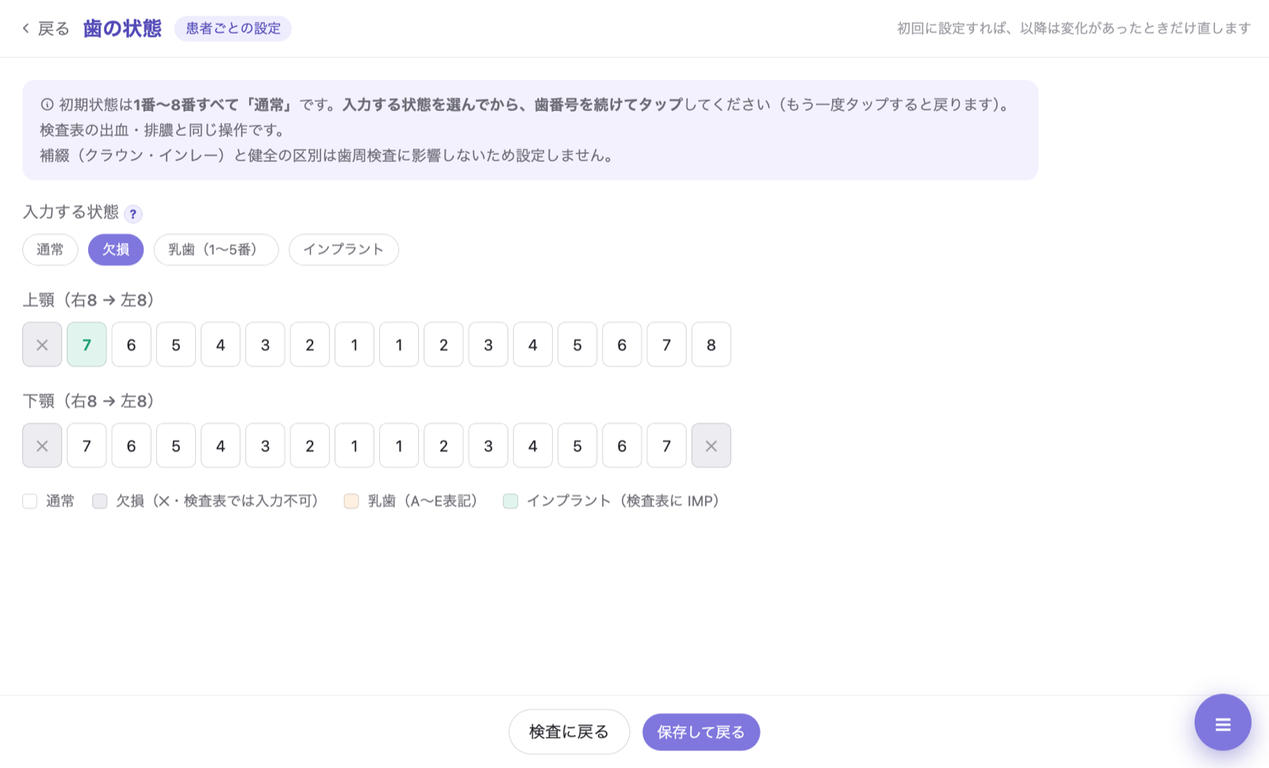
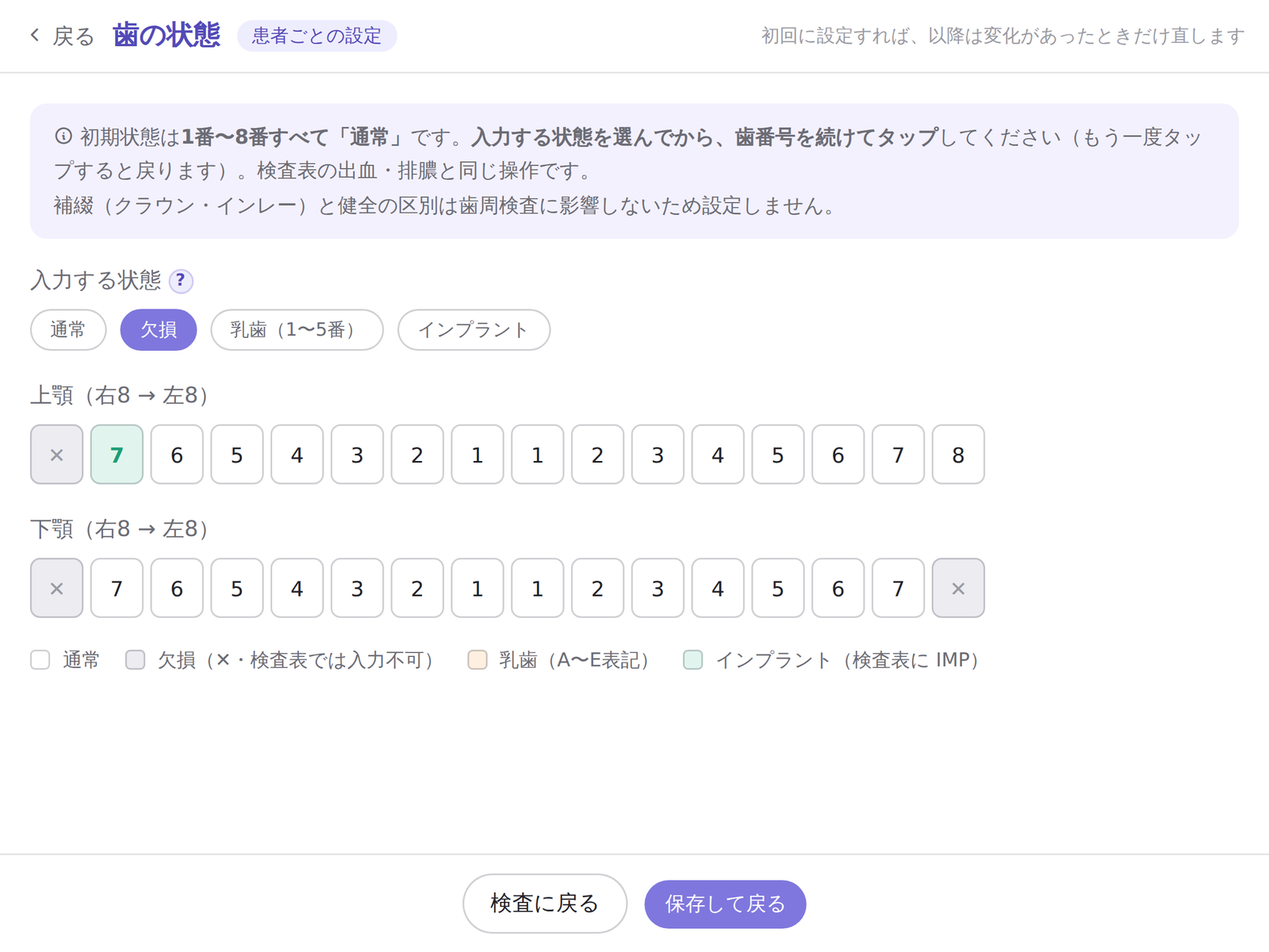
訴求をタップ入力ユーザー向けに見直し、キャプチャをiPad横（4:3）に統一
- 新セクション「WHY KOEMO」を追加（入力する点の数が減る／どの項目も操作が
  同じ／検査したあとの仕事が減る）
- 課題・入力セクション・機能カード・導入医院の声・FAQ・ロードマップ・料金を
  新しい訴求に合わせて修正。従来の音声入力との比較を軸にした表現を削除
- 集計の深さ分布の表記を 4mm未満 / 4〜6mm未満 / 6mm以上 に統一
- 画面キャプチャ10点をiPad横（4:3・1600x1200）で撮り直し、.wide 指定を廃止

Claude-Session: https://claude.ai/code/session_01CvoZChaQU9qaeBmwt9Qiq5

diff --git a/index.html b/index.html
@@ -3,8 +3,8 @@
 <head>
 <meta charset="utf-8">
 <meta name="viewport" content="width=device-width,initial-scale=1">
-<title>KOEMO（コエモ）｜プロービング検査を、声で記録する</title>
-<meta name="description" content="KOEMOは、歯周ポケット検査（プロービング検査）を音声で記録できる歯科医院向けクラウドサービスです。手を止めず、目を離さず、検査結果が残ります。">
+<title>KOEMO（コエモ）｜プロービング検査を、止めずに終える</title>
+<meta name="description" content="KOEMOは、歯周ポケット検査（プロービング検査）をiPadで記録する歯科医院向けクラウドサービスです。前回の記録が入った状態から始まるので、入力するのは変わったところだけ。操作はどの項目も「選んでから、続けてタップ」。ポケットと歯肉退縮量は声でも入れられます。">
 <style>
 :root{
   --purple:#7F77DD; --purple-d:#534AB7; --purple-dd:#3E3690;
@@ -43,6 +43,9 @@ nav.gnav a:hover{color:var(--purple-d);border-bottom-color:var(--purple)}
 /* ---------- 共通パーツ ---------- */
 section{padding:76px 0}
 section.alt{background:var(--lav3)}
+section#why{background:var(--lav)}
+section#why .fcard{border-color:var(--border2)}
+.whynote{margin-top:22px;padding:16px 20px;background:#fff;border:1px solid var(--border2);border-radius:14px;font-size:13.5px;color:var(--muted);line-height:1.9}
 .sechead{margin-bottom:36px}
 .sechead .en{display:block;font-size:11.5px;font-weight:800;letter-spacing:.2em;color:var(--purple);margin-bottom:7px}
 .sechead h2{font-size:29px;font-weight:800;margin:0;letter-spacing:.01em;line-height:1.4}
@@ -57,7 +60,6 @@ section.alt{background:var(--lav3)}
 .ipad{background:#1B1C22;border-radius:22px;padding:12px;box-shadow:0 24px 64px rgba(58,50,120,.22)}
 .ipad img{border-radius:12px;width:100%;aspect-ratio:4/3;object-fit:cover}
 .ipad.sm{border-radius:16px;padding:8px}.ipad.sm img{border-radius:9px}
-.ipad.wide img{aspect-ratio:auto;height:auto}
 .cap{font-size:12px;color:var(--hint);text-align:center;margin-top:12px}
 /* 実画面（スマホ） */
 .phone-shot{width:236px;aspect-ratio:10/19;border-radius:28px;overflow:hidden;margin:0 auto;box-shadow:0 22px 50px rgba(58,50,120,.22)}
@@ -307,9 +309,9 @@ footer ul .soon-li{color:var(--hint)}footer ul .soon-li small{font-size:9.5px;bo
   <div class="hbar">
     <a href="#" class="logo">KOEMO<span class="dot">.</span><small>コエモ</small></a>
     <nav class="gnav">
-      <a href="#probing">入力の使い分け</a>
+      <a href="#why">変わること</a>
+      <a href="#probing">入力のしかた</a>
       <a href="#change">前回との変化</a>
-      <a href="#compare">比較</a>
       <a href="#roadmap">今後の機能</a>
       <a href="#flow">導入の流れ</a>
       <a href="#price">料金</a>
@@ -329,7 +331,7 @@ footer ul .soon-li{color:var(--hint)}footer ul .soon-li small{font-size:9.5px;bo
     <div>
       <span class="pill-now"><i></i>第1弾リリース：プロービング検査</span>
       <h1 class="hero-t">プロービング検査を、<br><span class="hl">止めずに</span>終える。</h1>
-      <p class="lead">ポケットと歯肉退縮量は声で連続入力。出血・排膿・プラークはタップで素早く。前回の記録が入った状態から始まるので、変わったところだけを直していけます。歯科衛生士のためのクラウドサービスです。</p>
+      <p class="lead">前回の記録が入った状態から始まるので、入力するのは<b>変わったところだけ</b>。操作はどの項目も「選んでから、続けてタップ」で共通です。手が塞がる場面では、ポケットと歯肉退縮量を声でも入れられます。歯科衛生士のためのクラウドサービスです。</p>
       <div class="hero-btns">
         <a class="btn primary lg" href="#contact">お問い合わせ・デモ依頼</a>
         <a class="btn lg" href="#probing">画面を見る</a>
@@ -337,11 +339,11 @@ footer ul .soon-li{color:var(--hint)}footer ul .soon-li small{font-size:9.5px;bo
       <div class="hero-note">
         <span>◆ iPad・PCのブラウザで動作</span>
         <span>◆ 専用機器・初期費用なし</span>
-        <span>◆ 声とタップを使い分け</span>
+        <span>◆ 前回値が入った状態から始まる</span>
       </div>
     </div>
     <div>
-      <div class="ipad wide"><img src="img/dm_probing.png" alt="KOEMO プロービング検査画面。音声入力、検査部位、検査担当、検査表、テンキー、集計バーが表示されている" loading="eager"></div>
+      <div class="ipad"><img src="img/dm_probing.png" alt="KOEMO プロービング検査画面。音声入力、検査部位、検査担当、検査表、テンキー、集計バーが表示されている" loading="eager"></div>
       <div class="cap">プロービング検査画面（iPad横向き）</div>
     </div>
   </div>
@@ -365,40 +367,76 @@ footer ul .soon-li{color:var(--hint)}footer ul .soon-li small{font-size:9.5px;bo
         <h2>プロービング検査、<br>こんな場面はありませんか</h2>
       </div>
       <ul class="plist">
-        <li><b>記録のたびに、手と目が患者さんから離れる</b><span>プローブを持ち替え、視線を紙やモニターへ。検査のリズムが途切れます。</span></li>
-        <li><b>出血・排膿・プラークの入力に、思ったより時間がかかる</b><span>部位を口で説明している余裕はなく、かといって画面上の位置を探しながらでは進みません。</span></li>
-        <li><b>前回より良くなったのか、その場では分かりにくい</b><span>数字は並んでいても、どこが改善してどこが悪化したかは、見比べないと気づけません。</span></li>
+        <li><b>前回と同じ値も、毎回ゼロから入れ直している</b><span>入力が速いツールでも、入れる点の数は変わりません。変わっていない点まで触るぶん、検査は長くなります。</span></li>
+        <li><b>項目ごとに操作が違って、そのたびに一拍止まる</b><span>ポケット、出血、排膿、プラーク。入れ方が項目ごとに違うと、慣れていても手が止まります。</span></li>
+        <li><b>記録は残るのに、「良くなったか」はその場で分からない</b><span>数字は並んでいても、どこが改善しどこが悪化したかは、前回と見比べないと気づけません。</span></li>
+        <li><b>紙に書いている場合は、そのぶん手と目が患者さんから離れる</b><span>記録役をもう一人つけている医院もあります。あとからの書き写しや、読み違いのやり直しも残ります。</span></li>
       </ul>
-      <div class="answer">KOEMOは、<b>声で入れるところと、タップで入れるところを分けています。</b><small>ポケットと歯肉退縮量は声で連続入力。出血・排膿・プラークはタップ。前回値が入った状態から始まるので、変わったところだけを直していけます。</small></div>
+      <div class="answer">KOEMOは、<b>前回の記録が入った状態から始まります。</b><small>今回入力するのは、変わったところだけ。操作はどの項目も「選んでから、続けてタップ」で共通です。ポケットと歯肉退縮量は、手が塞がる場面で声でも入れられます。</small></div>
     </div>
   </div>
 </section>
 
-<!-- ============ 入力の使い分け ============ -->
+<!-- ============ すでにタップ入力を使っている方へ ============ -->
+<section id="why">
+  <div class="wrap">
+    <div class="sechead center">
+      <span class="en">WHY KOEMO</span>
+      <h2>すでにタップで入力できている方にこそ、<br>使っていただきたい</h2>
+      <p>タップ式の検査アプリですでにサクサク入力できている方から見れば、入力そのものはもう十分に速いはずです。KOEMOが短くするのは一打の速さではなく、<b>入力する点の数</b>と、<b>検査を終えたあとに残る仕事</b>です。</p>
+    </div>
+    <div class="fgrid">
+      <div class="fcard">
+        <div class="ico"><svg width="20" height="20" viewBox="0 0 24 24" fill="none" stroke="#534AB7" stroke-width="1.8" stroke-linecap="round" stroke-linejoin="round"><path d="M4 7h8M4 12h8M4 17h5"/><path d="M15 15l2.5 2.5L22 13"/></svg></div>
+        <h3>入力する点そのものが減る</h3>
+        <p>前回の記録が入った状態で検査表が開きます。変わっていない点は触らなくてよいので、タップの回数が減ります。速く入力するのではなく、入力する数を減らすという考え方です。</p>
+        <div class="tags"><span>前回値から開始</span><span>触るのは変化点だけ</span></div>
+      </div>
+      <div class="fcard">
+        <div class="ico"><svg width="20" height="20" viewBox="0 0 24 24" fill="none" stroke="#534AB7" stroke-width="1.8" stroke-linecap="round" stroke-linejoin="round"><path d="M4 8h13l-3-3M20 16H7l3 3"/></svg></div>
+        <h3>どの項目も操作が同じ</h3>
+        <p>「項目を選んでから、続けてタップ」。ポケットも出血も排膿も、歯の状態の設定まで同じ操作です。項目ごとに入れ方を覚え直す必要がなく、新しく入ったスタッフにもそのまま教えられます。</p>
+        <div class="tags"><span>モード選択→連続タップ</span><span>全画面で共通</span></div>
+      </div>
+      <div class="fcard">
+        <div class="ico"><svg width="20" height="20" viewBox="0 0 24 24" fill="none" stroke="#534AB7" stroke-width="1.8" stroke-linecap="round" stroke-linejoin="round"><path d="M4 19V11M10 19V5M16 19v-6M22 19H2"/></svg></div>
+        <h3>検査したあとの仕事が減る</h3>
+        <p>集計は入力のたびに更新され、深さの分布は信号色。改善・悪化はマークと音でその場に出ます。任意の2回を並べた比較やPDFもそのまま出せるので、説明用に作り直す手間が要りません。</p>
+        <div class="tags"><span>PESA・PISAも自動</span><span>比較・PDF</span></div>
+      </div>
+    </div>
+    <div class="whynote">
+      ◆ <b>手が塞がる場面だけ、声に逃がせます。</b>ポケットと歯肉退縮量は声でも入力できます。基本はタップのままで、使うかどうかはその場で選べます。<br>
+      ◆ <b>紙で記録している医院なら、記録役をもう一人つける必要がなくなります。</b>書き写しがなくなり、検査順や記録する項目は今のやり方のまま設定できます。
+    </div>
+  </div>
+</section>
+
+<!-- ============ 入力のしかた ============ -->
 <section class="alt" id="probing">
   <div class="wrap">
     <div class="sechead center">
       <span class="en">INPUT</span>
-      <h2>声とタップを、使い分ける</h2>
-      <p>速いほうで入れられることが、現場では一番の価値です。音声は<b>ポケットと歯肉退縮量</b>に絞り、それ以外はタップで完結します。</p>
+      <h2>基本はタップ。手が塞がるところだけ、声。</h2>
+      <p>どの項目も「選んでから、続けてタップ」で入ります。声で入れられるのは<b>ポケットと歯肉退縮量</b>で、使うかどうかはその場で選べます。</p>
     </div>
 
     <div class="bigshot">
-      <div class="ipad wide"><img src="img/dm_probing.png" alt="KOEMO プロービング検査画面。左上に音声入力、右上に検査部位と検査担当、中央に検査表、下にテンキーと集計バー" loading="lazy"></div>
+      <div class="ipad"><img src="img/dm_probing.png" alt="KOEMO プロービング検査画面。左上に音声入力、右上に検査部位と検査担当、中央に検査表、下にテンキーと集計バー" loading="lazy"></div>
       <div class="cap">プロービング検査画面。左上が音声、右上が検査部位と検査担当、中央が検査表、下がテンキーと集計</div>
     </div>
 
     <div class="twoshot" style="margin-top:34px">
       <div>
-        <div class="pdfshot"><img src="img/dm_voicezoom.png" alt="音声入力の操作エリア。AI音声入力ボタンと入力内容の表示欄" loading="lazy"></div>
-        <h4 style="margin-top:14px">声で入れる ― ポケット・歯肉退縮量</h4>
-        <p>「<b>3、2、3</b>」と測った値を続けて言うだけ。カーソルは次の測定点へ自動で進みます。歯を指定したいときは「6番 3、2、3」、1点だけ直したいときは「6番の遠心頬側に 3」。</p>
-        <p style="margin-top:8px"><b>入力値は読み上げません。</b>復唱を待つ時間が検査の速度を落とすためです。入った値は<b>効果音と画面表示</b>で確認します。</p>
+        <div class="ipad sm"><img src="img/dm_probing_bop.png" alt="出血モードを選んだ検査画面。左の項目ボタンで出血が選択されている" loading="lazy"></div>
+        <h4 style="margin-top:14px">タップで入れる ― 出血・排膿・プラーク・動揺度・根分岐部</h4>
+        <p>「出血」を押して、出血しているところを<b>続けてタップ</b>。排膿も同じ操作です。プラーク・動揺度・根分岐部は、値を直接タップするだけ。<b>歯の状態の設定まで同じ操作</b>なので、項目ごとに覚え直すことがありません。</p>
       </div>
       <div>
-        <div class="ipad sm wide"><img src="img/dm_probing_bop.png" alt="出血モードを選んだ検査画面。左の項目ボタンで出血が選択されている" loading="lazy"></div>
-        <h4 style="margin-top:14px">タップで入れる ― 出血・排膿・プラーク・動揺度・根分岐部</h4>
-        <p>「出血」を押して、出血しているところを<b>続けてタップ</b>。排膿も同じ操作です。プラーク・動揺度・根分岐部は、値を直接タップするだけ。<b>どの項目でも操作が同じ</b>なので迷いません。</p>
+        <div class="pdfshot"><img src="img/dm_voicezoom.png" alt="音声入力をオンにした検査画面の拡大。AI音声入力ボタンと、認識された「右上6番 頬側 3・2・3」の表示" loading="lazy"></div>
+        <h4 style="margin-top:14px">声で入れる ― ポケット・歯肉退縮量</h4>
+        <p>「<b>3、2、3</b>」と測った値を続けて言うだけ。カーソルは次の測定点へ自動で進みます。歯を指定したいときは「6番 3、2、3」、1点だけ直したいときは「6番の遠心頬側に 3」。</p>
+        <p style="margin-top:8px">入った値は<b>効果音と画面表示</b>で確認します（読み上げは行いません）。違っていれば言い直すか、テンキーからそのまま直せます。</p>
       </div>
     </div>
 
@@ -414,7 +452,7 @@ footer ul .soon-li{color:var(--hint)}footer ul .soon-li small{font-size:9.5px;bo
     <div class="sechead center">
       <span class="en">CHANGE</span>
       <h2>前回から何が変わったか、その場で分かる</h2>
-      <p>前回値が入った状態から始まり、<b>今回入力したところだけ</b>が濃く表示されます。重症度のレンジをまたいだ変化は、マークと音で知らせます。</p>
+      <p>前回値が入った状態から始まるので、入力するのは<b>変わったところだけ</b>。触った点だけが濃く表示され、重症度のレンジをまたいだ変化は、マークと音で知らせます。</p>
     </div>
 
     <div class="bigshot">
@@ -423,7 +461,7 @@ footer ul .soon-li{color:var(--hint)}footer ul .soon-li small{font-size:9.5px;bo
     </div>
 
     <div class="steps4" style="margin-top:28px">
-      <div class="st"><div class="n">1</div><h4>前回値から始まる</h4><p>ポケットも出血もプラークも、前回の記録が入った状態で開きます。変わったところだけを直していけます。</p><span class="arrow">›</span></div>
+      <div class="st"><div class="n">1</div><h4>前回値から始まる</h4><p>ポケットも出血もプラークも、前回の記録が入った状態で開きます。同じままの点は触らなくてよいので、入力そのものが減ります。</p><span class="arrow">›</span></div>
       <div class="st"><div class="n">2</div><h4>今回の入力だけ濃くなる</h4><p>触っていない点は薄いグレーのまま。「前回から入っていた」と「今回入れた」が一目で分かります。</p><span class="arrow">›</span></div>
       <div class="st"><div class="n">3</div><h4>レンジをまたぐと印がつく</h4><p>軽度→中等度→重度のレンジを越えたときだけ、<b>改善は青緑の上向き三角</b>、<b>悪化は赤の下向き三角</b>を数字の上に表示します。</p><span class="arrow">›</span></div>
       <div class="st"><div class="n">4</div><h4>良くなった音・悪くなった音</h4><p>同時に効果音が鳴ります。音が違うので、画面を見ていなくても変化に気づけます。入力ミスの発見にもつながります。</p></div>
@@ -441,7 +479,7 @@ footer ul .soon-li{color:var(--hint)}footer ul .soon-li small{font-size:9.5px;bo
     </div>
     <div class="twoshot">
       <div>
-        <div class="ipad sm wide"><img src="img/dm_toothstate.png" alt="歯の状態の設定画面。通常・欠損・乳歯・インプラントを選んでから歯番号を連続タップする" loading="lazy"></div>
+        <div class="ipad sm"><img src="img/dm_toothstate.png" alt="歯の状態の設定画面。通常・欠損・乳歯・インプラントを選んでから歯番号を連続タップする" loading="lazy"></div>
         <div class="cap">状態を選んでから、歯番号を続けてタップ。検査表の出血と同じ操作です</div>
       </div>
       <div>
@@ -463,7 +501,7 @@ footer ul .soon-li{color:var(--hint)}footer ul .soon-li small{font-size:9.5px;bo
       <p>前回との比較だけでなく、<b>任意の2回</b>を選んで上下に並べられます。検査表は横長なので、左右ではなく上下に置くことで見比べやすくしました。</p>
     </div>
     <div class="bigshot">
-      <div class="ipad wide"><img src="img/dm_compare.png" alt="検査の比較画面。2回の検査結果を上下2段に並べ、ポケット・出血・排膿を表示" loading="lazy"></div>
+      <div class="ipad"><img src="img/dm_compare.png" alt="検査の比較画面。2回の検査結果を上下2段に並べ、ポケット・出血・排膿を表示" loading="lazy"></div>
       <div class="cap">上下2段で比較。出すのはポケット・出血・排膿の3つに絞り、患者さんへの説明にそのまま使えます</div>
     </div>
     <div class="steps4" style="margin-top:26px">
@@ -485,15 +523,15 @@ footer ul .soon-li{color:var(--hint)}footer ul .soon-li small{font-size:9.5px;bo
     <div class="fgrid">
       <div class="fcard">
         <div class="ico"><svg width="20" height="20" viewBox="0 0 24 24" fill="none" stroke="#534AB7" stroke-width="1.8" stroke-linecap="round"><path d="M12 3v10"/><path d="M9 6a3 3 0 0 1 6 0v4a3 3 0 0 1-6 0z"/><path d="M6 11a6 6 0 0 0 12 0"/></svg></div>
-        <h3>声とタップの使い分け</h3>
-        <p>ポケットと歯肉退縮量は声で連続入力。出血・排膿・プラーク・動揺度・根分岐部はタップ。読み上げは行わず、効果音と画面表示で確認します。</p>
-        <div class="tags"><span>復唱なし</span><span>タップ主体</span></div>
+        <h3>タップが基本、声は選べる</h3>
+        <p>どの項目も「選んでから、続けてタップ」で共通。ポケットと歯肉退縮量は声でも入力でき、使うかどうかはその場で選べます。入った値は効果音と画面表示で確認します。</p>
+        <div class="tags"><span>操作は全項目で共通</span><span>声はポケット・歯肉退縮量</span></div>
       </div>
       <div class="fcard">
         <div class="ico"><svg width="20" height="20" viewBox="0 0 24 24" fill="none" stroke="#534AB7" stroke-width="1.8" stroke-linecap="round"><path d="M12 8v4l3 2"/><circle cx="12" cy="12" r="9"/></svg></div>
-        <h3>前回値と、変化のマーク</h3>
-        <p>前回の記録が入った状態から始まり、今回入力した点だけが濃く表示されます。レンジをまたいだ変化は三角のマークと効果音で知らせます。</p>
-        <div class="tags"><span>前回値を常時表示</span><span>改善▲／悪化▼</span></div>
+        <h3>前回値から始まる</h3>
+        <p>前回の記録が入った状態で開き、今回入力した点だけが濃く表示されます。入力するのは変わったところだけ。レンジをまたいだ変化は三角のマークと効果音で知らせます。</p>
+        <div class="tags"><span>入力するのは変化点だけ</span><span>改善▲／悪化▼</span></div>
       </div>
       <div class="fcard">
         <div class="ico"><svg width="20" height="20" viewBox="0 0 24 24" fill="none" stroke="#534AB7" stroke-width="1.8" stroke-linecap="round"><path d="M12 3c3 0 5 2 5 5 0 4-2 6-2 10-1 2-2 3-3 3s-2-1-3-3c0-4-2-6-2-10 0-3 2-5 5-5z"/></svg></div>
@@ -525,7 +563,7 @@ footer ul .soon-li{color:var(--hint)}footer ul .soon-li small{font-size:9.5px;bo
       <div class="sechead" style="margin-bottom:18px"><span class="en">SUMMARY</span><h2 style="font-size:22px">検査結果はその場で集計</h2></div>
       <div class="stats">
         <div class="stat"><div class="k">PPD平均</div><div class="v">2.6<small style="font-size:12px">mm</small></div><div class="d">ポケット深さの平均</div></div>
-        <div class="stat"><div class="k">深さ分布</div><div class="v">72<small style="font-size:12px">%</small></div><div class="d">1〜3mm / 4〜5mm / 6mm以上</div></div>
+        <div class="stat"><div class="k">深さ分布</div><div class="v">72<small style="font-size:12px">%</small></div><div class="d">4mm未満 / 4〜6mm未満 / 6mm以上</div></div>
         <div class="stat"><div class="k">BOP</div><div class="v">22<small style="font-size:12px">%</small></div><div class="d">プロービング時の出血率</div></div>
         <div class="stat"><div class="k">PCR</div><div class="v">35<small style="font-size:12px">%</small></div><div class="d">プラーク付着率</div></div>
         <div class="stat"><div class="k">PESA</div><div class="v">402<small style="font-size:12px">mm²</small></div><div class="d">歯周ポケット上皮の表面積</div></div>
@@ -534,7 +572,7 @@ footer ul .soon-li{color:var(--hint)}footer ul .soon-li small{font-size:9.5px;bo
       <p style="font-size:12.5px;color:var(--hint);margin:14px 0 0">集計は入力のたびにその場で更新されます。深さ分布は<b>軽度・中等度・重度で色分け</b>されるため、患者さんに見せながら説明できます。検査表は保存のほか、<b>PDFとして出力</b>できます。</p>
       <div class="shotgrid">
         <div>
-          <div class="ipad sm wide"><img src="img/dm_probing_rec.png" alt="全項目を表示した検査画面。動揺度・根分岐部・プラーク・ポケット・出血・排膿・歯肉退縮量" loading="lazy"></div>
+          <div class="ipad sm"><img src="img/dm_probing_rec.png" alt="全項目を表示した検査画面。動揺度・根分岐部・プラーク・ポケット・出血・排膿・歯肉退縮量" loading="lazy"></div>
           <div class="cap">記録する項目は医院ごとに選べます（動揺度・根分岐部・プラーク・ポケット・出血・排膿・歯肉退縮量）</div>
         </div>
         <div>
@@ -556,7 +594,7 @@ footer ul .soon-li{color:var(--hint)}footer ul .soon-li small{font-size:9.5px;bo
     </div>
     <div class="twoshot">
       <div>
-        <div class="ipad sm wide"><img src="img/dm_examset.png" alt="表示設定・検査順の画面。4区画の順番と右から/左からの指定、設定中の流れを示す上下顎のイラスト" loading="lazy"></div>
+        <div class="ipad sm"><img src="img/dm_examset.png" alt="表示設定・検査順の画面。4区画の順番と右から/左からの指定、設定中の流れを示す上下顎のイラスト" loading="lazy"></div>
         <div class="cap">左で順番と向きを指定すると、下のイラストの矢印と番号がそのまま変わります</div>
       </div>
       <div>
@@ -574,12 +612,12 @@ footer ul .soon-li{color:var(--hint)}footer ul .soon-li small{font-size:9.5px;bo
     </div>
     <div class="twoshot">
       <div>
-        <div class="ipad sm wide"><img src="img/dm_stream.png" alt="患者詳細画面。来院ごとの検査結果が縦に並び、PPD平均・BOP・PCR・4mm以上と検査表が表示されている" loading="lazy"></div>
+        <div class="ipad sm"><img src="img/dm_stream.png" alt="患者詳細画面。来院ごとの検査結果が縦に並び、PPD平均・BOP・PCR・4mm以上と検査表が表示されている" loading="lazy"></div>
         <h4>患者詳細（巻物）</h4>
         <p>来院ごとに PPD平均・BOP・PCR・4mm以上を表示。展開すると検査表まで見られます。右には指標の推移、左には来院日のミニマップ。</p>
       </div>
       <div>
-        <div class="ipad sm wide"><img src="img/dm_search.png" alt="患者検索画面。カルテ番号・患者名・来院日で検索し、最終診療日つきの結果が並ぶ" loading="lazy"></div>
+        <div class="ipad sm"><img src="img/dm_search.png" alt="患者検索画面。カルテ番号・患者名・来院日で検索し、最終診療日つきの結果が並ぶ" loading="lazy"></div>
         <h4>患者検索</h4>
         <p>カルテ番号・患者名・来院日で検索。結果には最終診療日が出るので、目的の患者をすぐ選べます。初診の方はその場で登録できます。</p>
       </div>
@@ -612,7 +650,7 @@ footer ul .soon-li{color:var(--hint)}footer ul .soon-li small{font-size:9.5px;bo
         <div class="dot">1</div>
         <div class="ph">PHASE 1</div>
         <h4>プロービング検査</h4>
-        <p>音声入力・読み上げ確認・検査表・統計・PDF出力</p>
+        <p>タップ入力・音声入力・前回値の表示・検査表・集計・PDF出力</p>
         <span class="st-tag">公開中</span>
       </div>
       <div class="rmi">
@@ -707,12 +745,12 @@ footer ul .soon-li{color:var(--hint)}footer ul .soon-li small{font-size:9.5px;bo
         <div class="pdesc">院長（オーナー）＋スタッフ1名分を含みます</div>
         <div class="price">¥○,○○○<small>／月</small></div>
         <div class="pnote">税込・初期費用なし</div>
-        <ul><li>プロービング検査（音声・手入力）</li><li>検査結果の保存・PDF出力</li><li>担当者ごとの検査設定</li><li>今後公開する機能も同じ契約内で追加</li></ul>
+        <ul><li>プロービング検査（タップ入力・音声入力）</li><li>検査結果の保存・PDF出力</li><li>担当者ごとの検査設定</li><li>今後公開する機能も同じ契約内で追加</li></ul>
       </div>
       <div class="pcard hi">
         <span class="badge">従量</span>
         <div class="ptitle">AIクレジット</div>
-        <div class="pdesc">音声入力・読み上げなどAIの処理で消費します</div>
+        <div class="pdesc">音声入力などAIの処理で消費します</div>
         <div class="price">¥1,000<small>／1,000クレジット</small></div>
         <div class="pnote">1クレジット＝1円相当・毎月無料枠あり</div>
         <ul><li>チャージ式（前払い）・1,000／3,000／5,000／10,000から選択</li><li>毎月1,000クレジットの無料枠</li><li>残高500クレジット未満でメール通知</li><li>利用状況の履歴を画面で確認</li></ul>
@@ -755,8 +793,8 @@ footer ul .soon-li{color:var(--hint)}footer ul .soon-li small{font-size:9.5px;bo
   </div>
   <div class="wrap">
     <div class="vscroll">
-      <div class="vcard"><p class="q">検査中に手を止めなくなった</p><p>これまでは値を言って、記録する人がもう一人必要でした。ポケットは声、出血はタップと分かれているので、一人で検査が完結します。入力のたびに音が鳴るので、見なくても入ったことが分かります。</p><div class="vprof"><div class="av">A</div><div><div class="nm">歯科衛生士</div><div class="af">◯◯歯科クリニック</div></div></div></div>
-      <div class="vcard"><p class="q">患者さんから目を離さずに済む</p><p>プローブを持ったまま値を口にするだけなので、視線が口腔内から外れません。患者さんも「ちゃんと見てもらえている」と感じてくれているようです。</p><div class="vprof"><div class="av">B</div><div><div class="nm">歯科衛生士</div><div class="af">◯◯デンタルオフィス</div></div></div></div>
+      <div class="vcard"><p class="q">入力する点そのものが減った</p><p>前のアプリでもタップ入力はできていましたが、毎回ぜんぶ入れ直していました。KOEMOは前回の記録が入った状態から始まるので、触るのは変わったところだけ。検査が終わる時間が変わりました。</p><div class="vprof"><div class="av">A</div><div><div class="nm">歯科衛生士</div><div class="af">◯◯歯科クリニック</div></div></div></div>
+      <div class="vcard"><p class="q">操作を覚え直さなくていい</p><p>出血も排膿も歯の状態も、選んでから続けてタップ。項目ごとに入れ方が違わないので、新しく入ったスタッフにもその日のうちに教えられました。手が塞がるときはポケットを声で入れています。</p><div class="vprof"><div class="av">B</div><div><div class="nm">歯科衛生士</div><div class="af">◯◯デンタルオフィス</div></div></div></div>
       <div class="vcard"><p class="q">良くなったことが、その場で伝わる</p><p>前回の値が入った状態から始まるので、変わったところだけを直せます。改善したところに印が付くので、患者さんに「ここ、良くなりましたね」とその場で伝えられます。</p><div class="vprof"><div class="av">C</div><div><div class="nm">院長</div><div class="af">◯◯歯科医院</div></div></div></div>
       <div class="vcard"><p class="q">今の記録の仕方のまま使える</p><p>表示する項目や点数法を医院の運用に合わせられるので、記録の仕方を変えずに導入できました。iPadはチェアに置いたままです。</p><div class="vprof"><div class="av">D</div><div><div class="nm">院長</div><div class="af">◯◯ファミリー歯科</div></div></div></div>
     </div>
@@ -791,7 +829,9 @@ footer ul .soon-li{color:var(--hint)}footer ul .soon-li small{font-size:9.5px;bo
 <section class="alt" id="faq">
   <div class="wrap" style="max-width:880px">
     <div class="sechead center"><span class="en">FAQ</span><h2>よくあるご質問</h2></div>
-    <details class="faq" open><summary><span class="qm">Q</span>専用の機器を購入する必要はありますか？<span class="mk">＋</span></summary><div class="ans">いいえ。KOEMOはブラウザで動作するため、お手持ちのiPadまたはPCからご利用いただけます。チェアに設置された端末でも、1人1台の運用でもお使いいただけます。マイクは端末内蔵のものでご利用いただけます。</div></details>
+    <details class="faq" open><summary><span class="qm">Q</span>すでにタップ式の検査アプリを使っています。変える意味はありますか？<span class="mk">＋</span></summary><div class="ans">KOEMOが短くするのは入力の一打ではなく、<b>入力する点の数</b>です。前回の記録が入った状態から検査表が開くので、変わっていない点は触りません。操作はどの項目も「選んでから、続けてタップ」で共通のため、項目ごとに入れ方を覚え直す必要もありません。あわせて、集計・改善／悪化の表示・任意の2回の比較・PDFがその場で出るので、検査を終えてから説明用に作り直す作業も減らせます。検査順や記録する項目は、今の運用のまま設定できます。</div></details>
+    <details class="faq"><summary><span class="qm">Q</span>紙に記録しています。いきなり切り替えられますか？<span class="mk">＋</span></summary><div class="ans">はい。まわる区画の順番と進む向き、記録する検査項目と点数法を、今のやり方に合わせて設定できます。記録の手順を変えずに置き換えられるかたちです。記録役をもう一人つける必要がなくなり、書き写しもなくなります。検査結果はPDFで出力でき、印刷してそのままお渡しいただけます。</div></details>
+    <details class="faq"><summary><span class="qm">Q</span>専用の機器を購入する必要はありますか？<span class="mk">＋</span></summary><div class="ans">いいえ。KOEMOはブラウザで動作するため、お手持ちのiPadまたはPCからご利用いただけます。チェアに設置された端末でも、1人1台の運用でもお使いいただけます。マイクは端末内蔵のものでご利用いただけます。</div></details>
     <details class="faq"><summary><span class="qm">Q</span>診療中の環境音があっても、音声は認識されますか？<span class="mk">＋</span></summary><div class="ans">声で入れるのはポケットと歯肉退縮量に絞っており、入った値は画面表示と効果音で確認できます。認識が違っていた場合は、そのまま言い直すか、テンキーから手入力で修正できます。出血・排膿・プラークなどはタップで入力するため、音声認識の影響を受けません。導入前のデモで、実際の診療環境に近い状態でお試しいただくことをおすすめしています。</div></details>
     <details class="faq"><summary><span class="qm">Q</span>今使っている検査の順番（流れ）のまま使えますか？<span class="mk">＋</span></summary><div class="ans">はい。まわる区画（上顎頬側・上顎口蓋側・下顎頬側・下顎舌側）の順番と、それぞれ右から進むか左から進むかを指定できます。設定した流れは図で確認でき、端まで入力すると自動で次の区画へ移ります。設定は担当者ごとに保存され、次回以降も引き継がれます。6点法・4点法・1点法にも対応しています。</div></details>
     <details class="faq"><summary><span class="qm">Q</span>インプラントの周囲も検査できますか？<span class="mk">＋</span></summary><div class="ans">はい。歯の状態で「インプラント」を独立して設定でき、検査表にも表示されます。欠損として扱う必要がないため、インプラント周囲の状態をメインテナンスのたびに記録として残せます。</div></details>
@@ -824,8 +864,8 @@ footer ul .soon-li{color:var(--hint)}footer ul .soon-li small{font-size:9.5px;bo
 <footer>
   <div class="wrap">
     <div class="fgrid2">
-      <div><a href="#" class="logo">KOEMO<span class="dot">.</span></a><p class="fdesc">プロービング検査を、声で記録する。歯科衛生士のためのクラウドサービスです。検査から説明・書類・お渡しまで、順に広げていきます。</p></div>
-      <div><h5>SERVICE</h5><ul><li><a href="#probing">入力の使い分け</a></li><li><a href="#change">前回との変化</a></li><li><a href="#tooth">歯の状態</a></li><li><a href="#compare">検査の比較</a></li><li><a href="#settings">検査順・表示設定</a></li><li><a href="#roadmap">今後の機能</a></li><li class="soon-li">書類生成<small>SOON</small></li><li class="soon-li">患者説明<small>SOON</small></li><li class="soon-li">患者用アプリ<small>SOON</small></li></ul></div>
+      <div><a href="#" class="logo">KOEMO<span class="dot">.</span></a><p class="fdesc">前回値から始まるプロービング検査。歯科衛生士のためのクラウドサービスです。検査から説明・書類・お渡しまで、順に広げていきます。</p></div>
+      <div><h5>SERVICE</h5><ul><li><a href="#why">KOEMOで変わること</a></li><li><a href="#probing">入力のしかた</a></li><li><a href="#change">前回との変化</a></li><li><a href="#tooth">歯の状態</a></li><li><a href="#compare">検査の比較</a></li><li><a href="#settings">検査順・表示設定</a></li><li><a href="#roadmap">今後の機能</a></li><li class="soon-li">書類生成<small>SOON</small></li><li class="soon-li">患者説明<small>SOON</small></li><li class="soon-li">患者用アプリ<small>SOON</small></li></ul></div>
       <div><h5>SUPPORT</h5><ul><li><a href="#flow">導入の流れ</a></li><li><a href="#price">料金</a></li><li><a href="#faq">よくあるご質問</a></li><li><a href="#">アップデート情報</a></li><li><a href="#">障害・メンテナンス情報</a></li></ul></div>
       <div><h5>COMPANY</h5><ul><li><a href="#contact">お問い合わせ</a></li><li><a href="#">運営会社</a></li><li><a href="#">利用規約</a></li><li><a href="#">個人情報保護方針</a></li><li><a href="#">特定商取引法に基づく表記</a></li></ul></div>
     </div>
